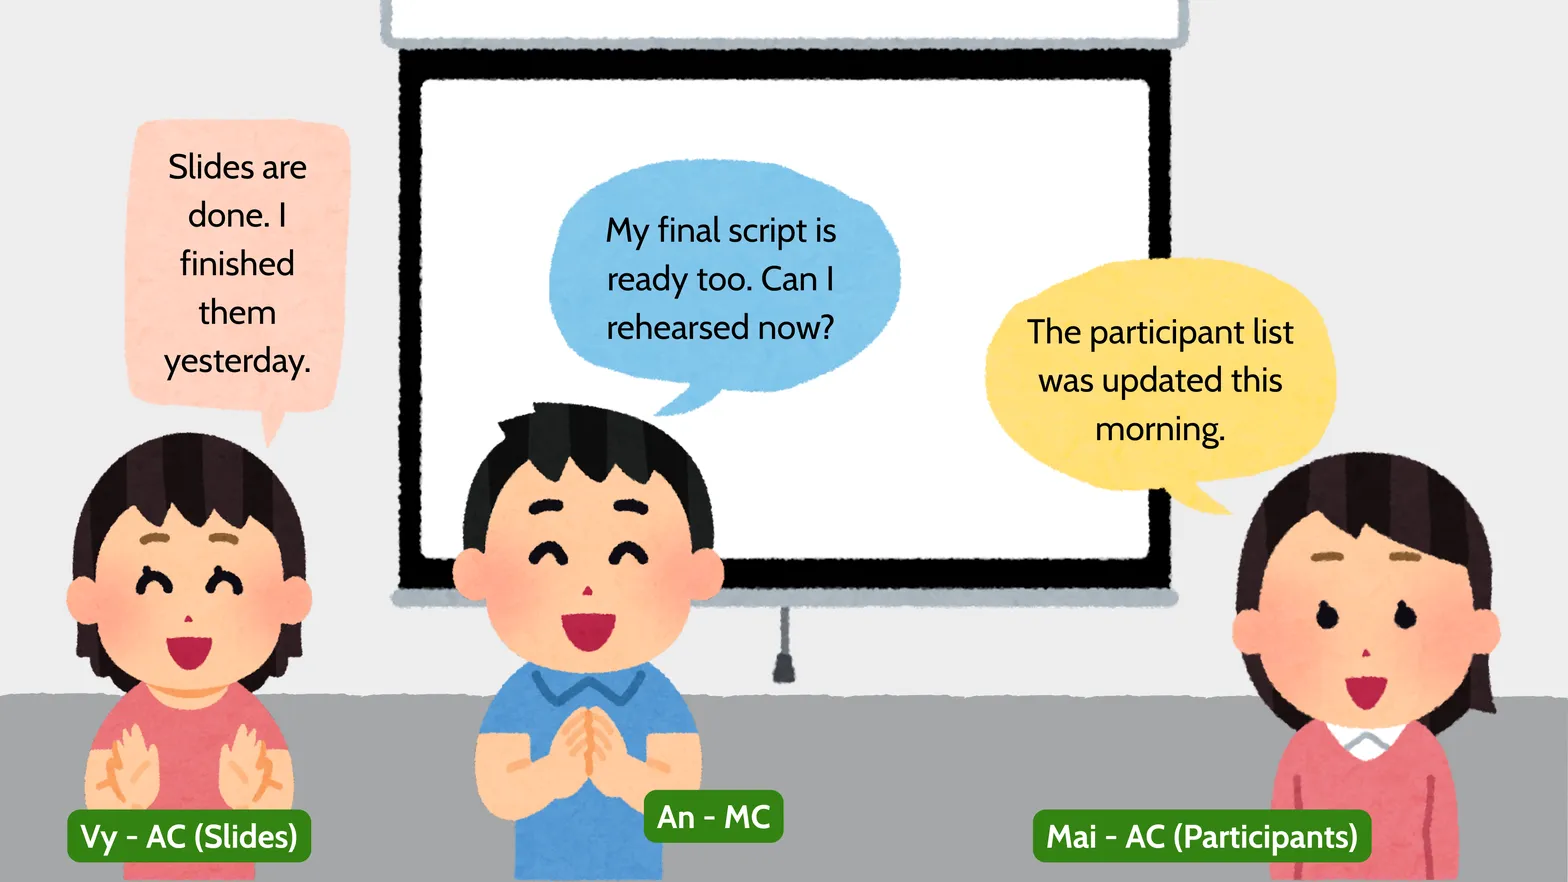
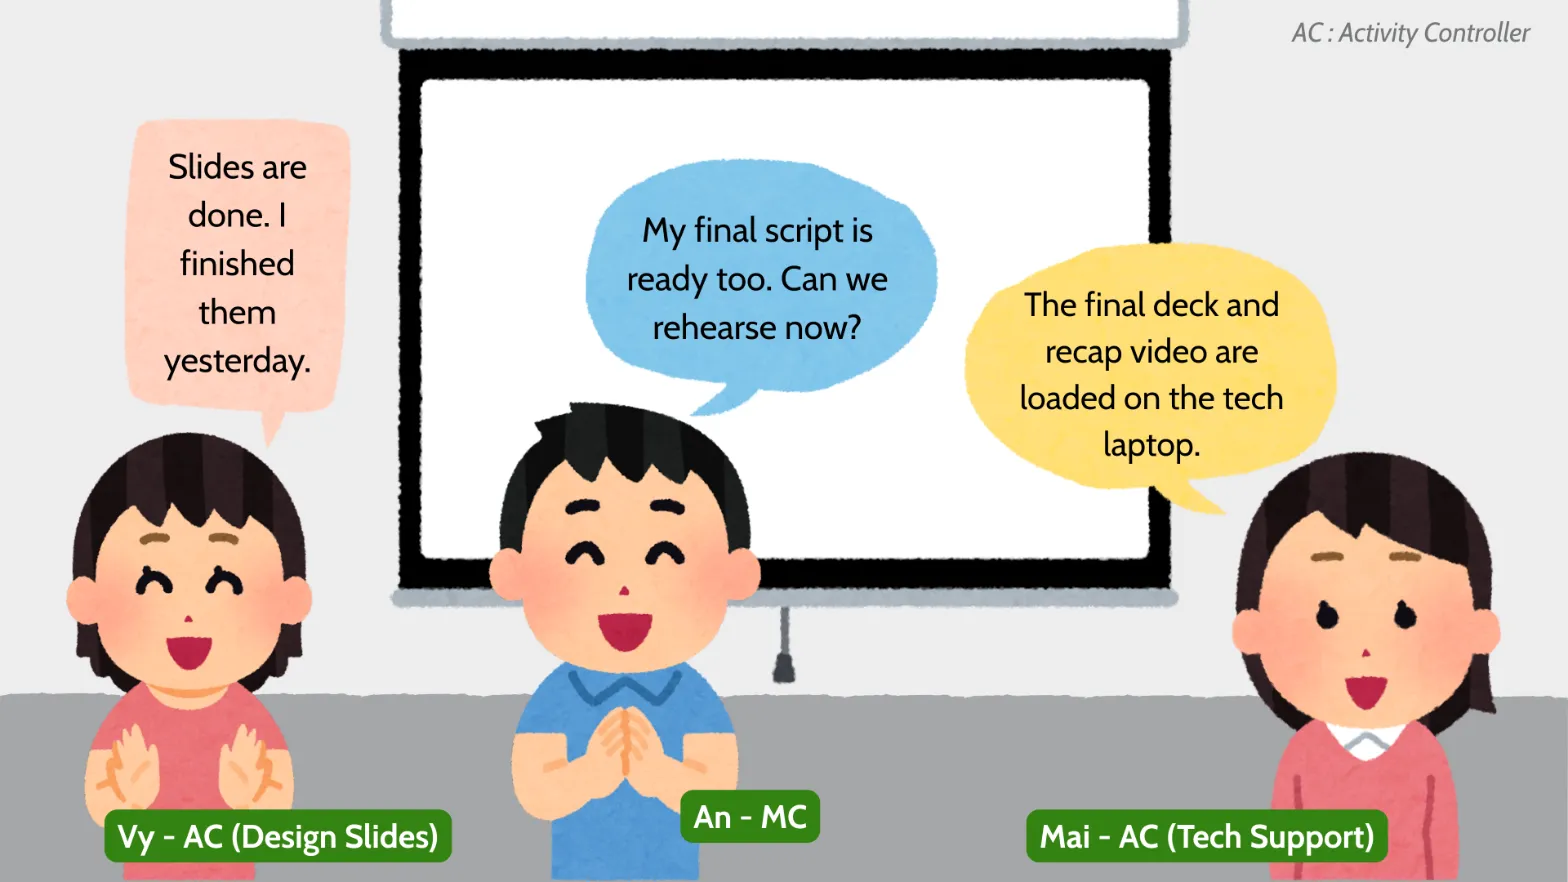
Replace opening scene illustration

diff --git a/src/components/learner/EventReadinessCoursePage.tsx b/src/components/learner/EventReadinessCoursePage.tsx
@@ -1885,7 +1885,7 @@ export function EventReadinessCoursePage({
                         ) : openingDecision === "A" ? (
                           <img src="/final-rehearsal-signoff.webp?v=1" alt="The team has completed its individual tasks while questioning whether the participant-introduction sequence is ready to sign off" className="mx-auto block w-[85%] rounded-2xl object-cover" />
                         ) : (
-                          <img src="/final-rehearsal-opening.webp?v=3" alt="Vy, An, and Mai preparing an event rehearsal in a preparation room" className="mx-auto block w-[85%] rounded-2xl object-cover" />
+                          <img src="/final-rehearsal-opening.webp?v=4" alt="Vy, An, and Mai preparing an event rehearsal in a preparation room" className="mx-auto block w-[85%] rounded-2xl object-cover" />
                         )}
                         {openingDecision === null ? (
                           <div key="opening-decision" className="animate-scene-reveal rounded-2xl border border-[#87AECE]/35 bg-[#F0F7FC] p-5">
